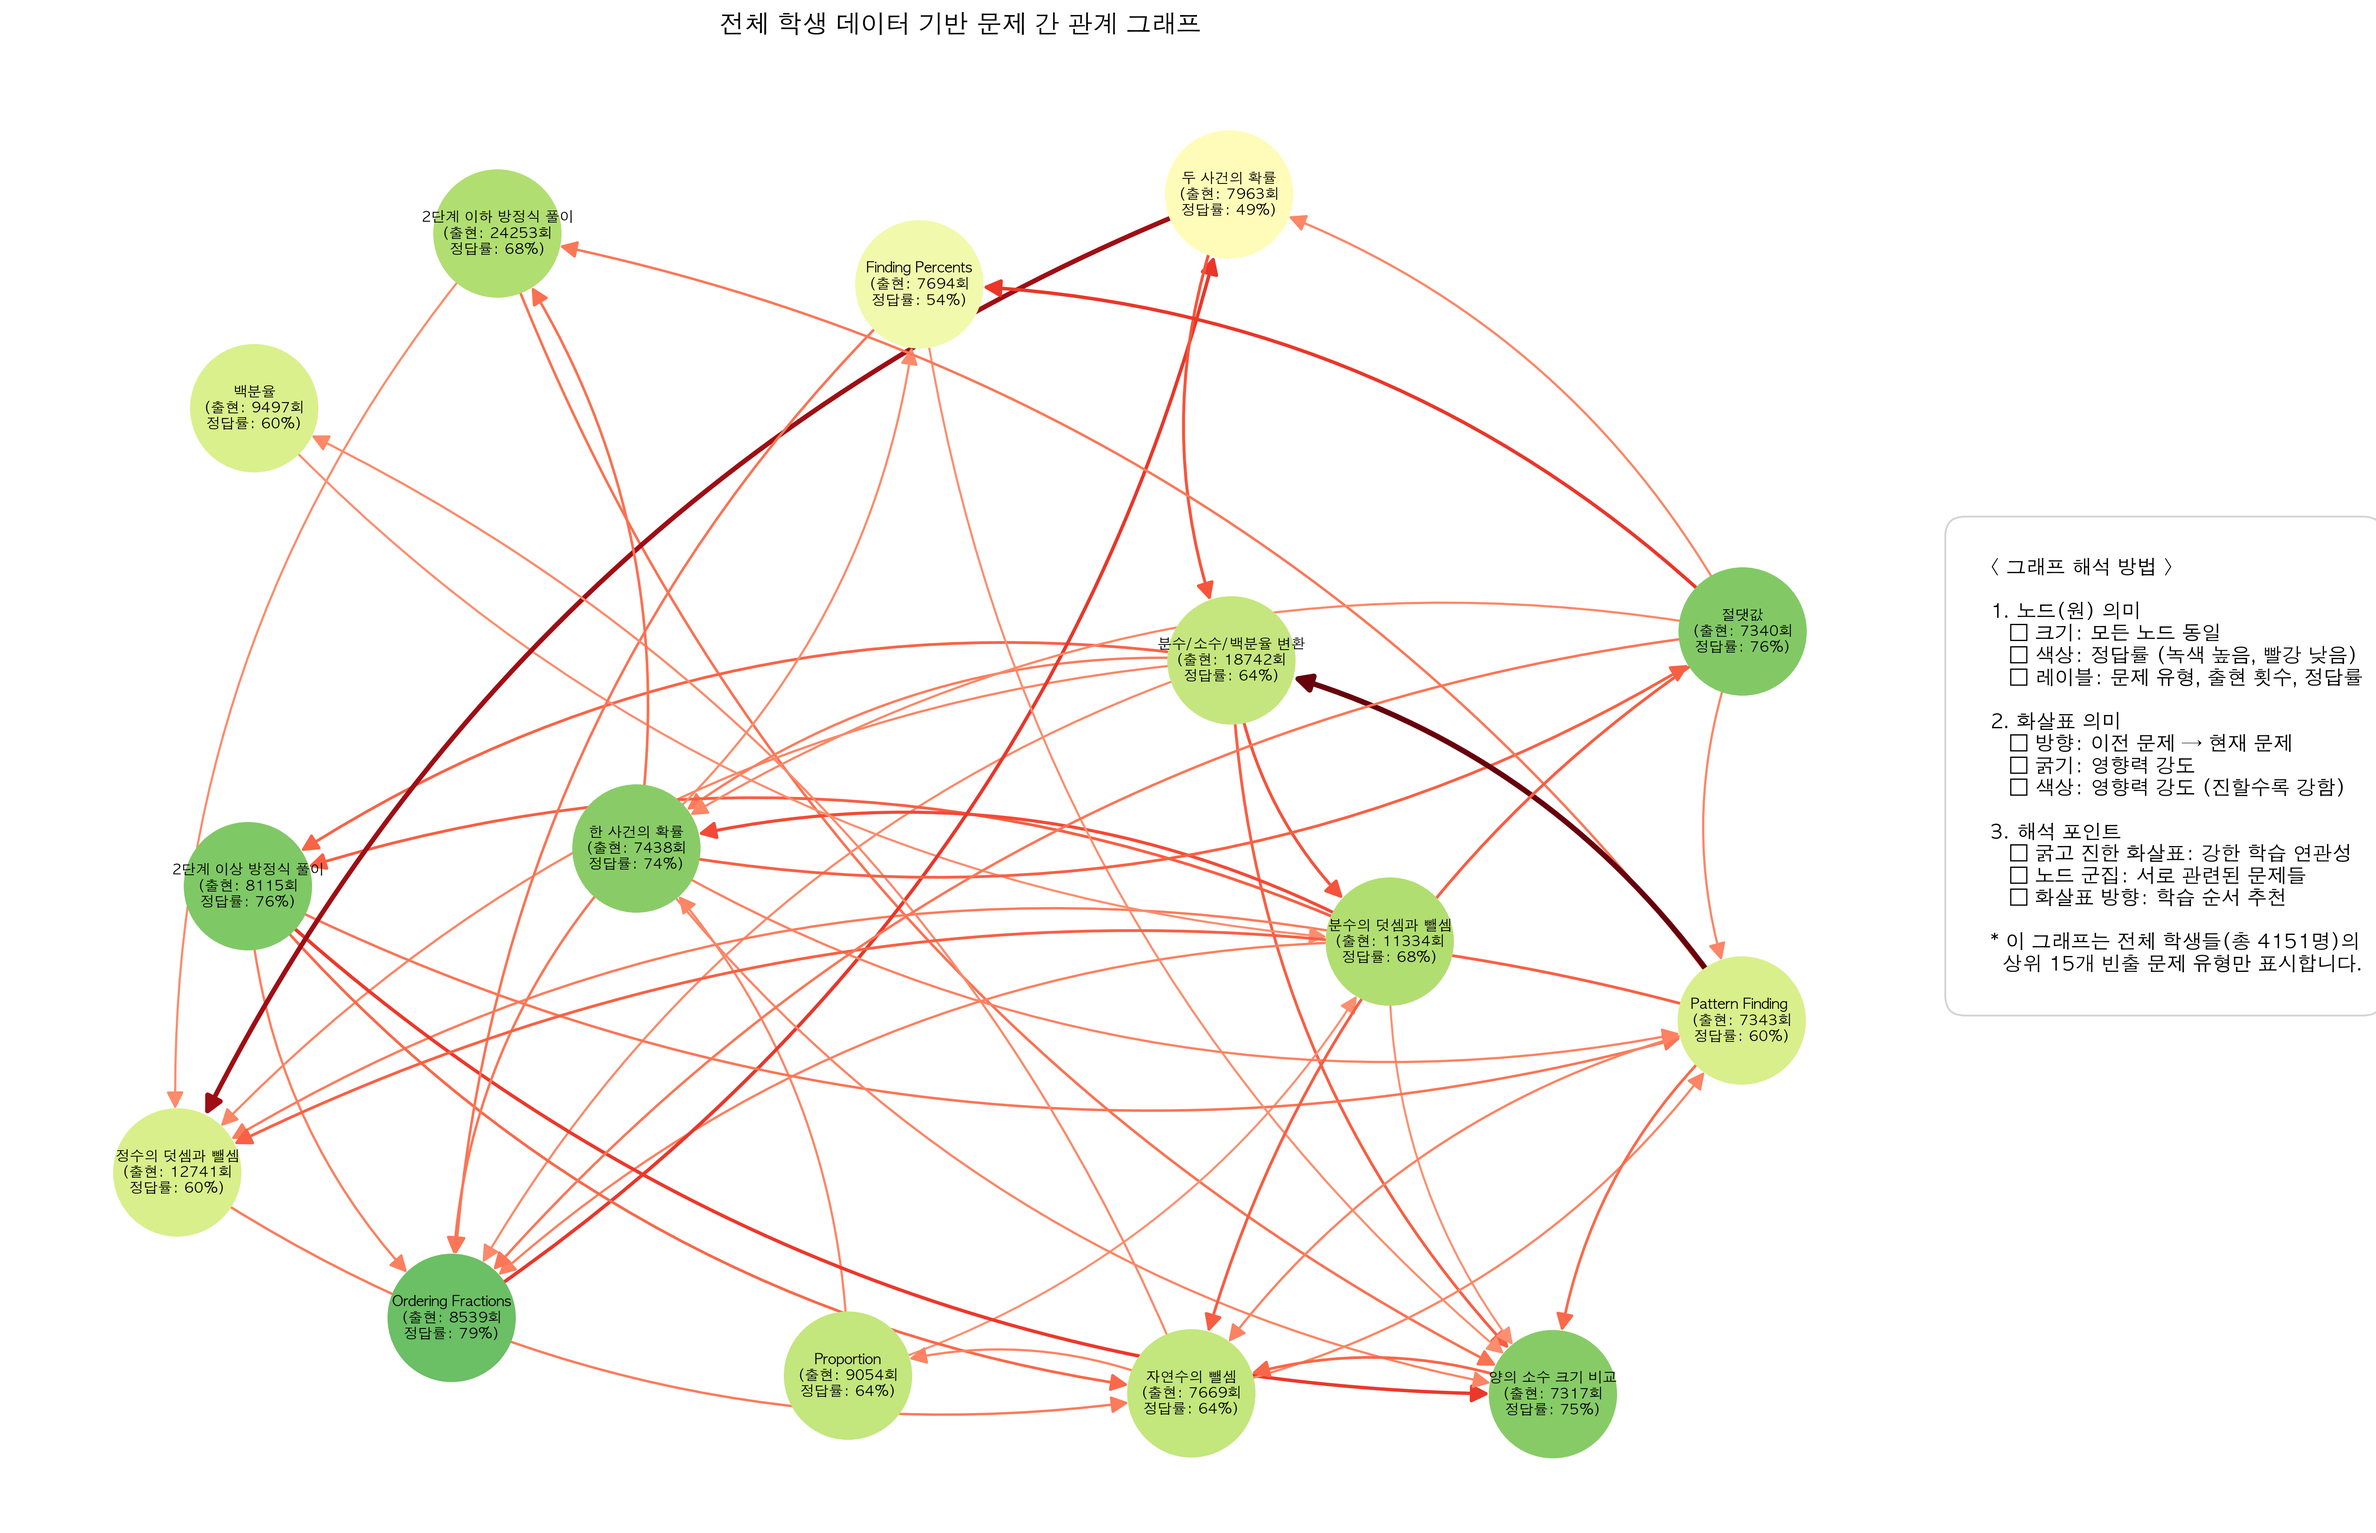
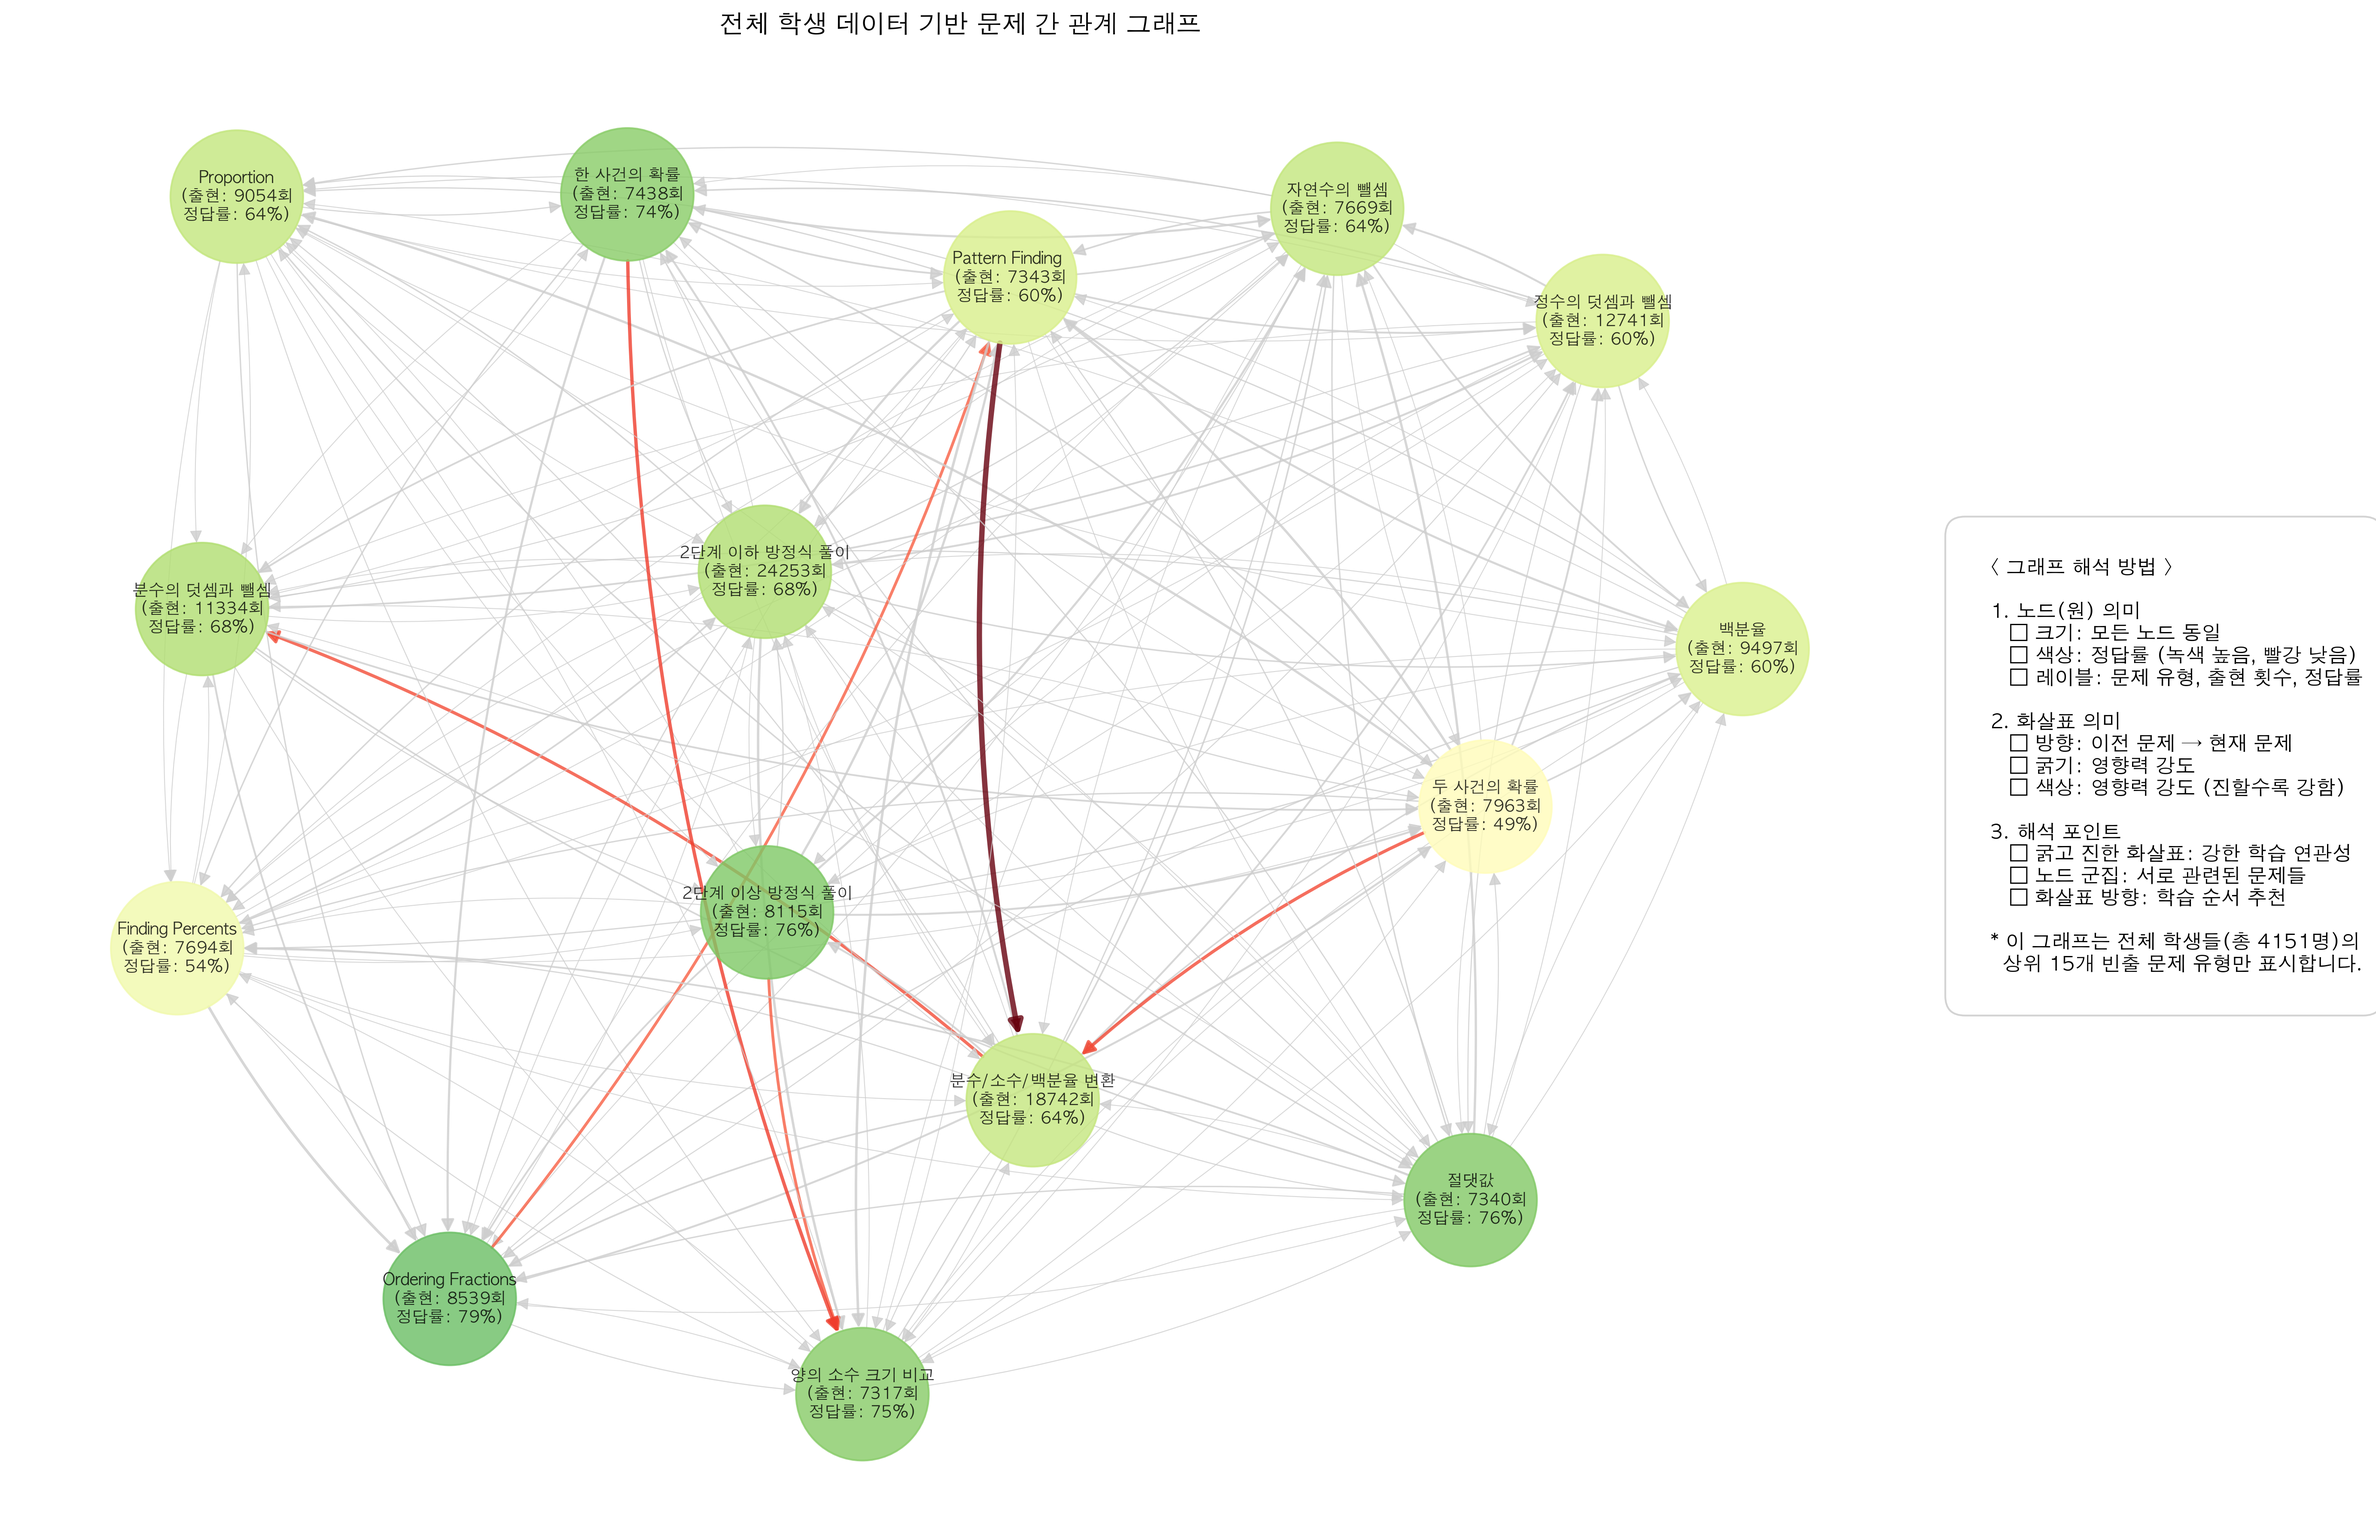
시각화 개선: 관계 그래프에서 0.3 이상의 attention 값만 표시하고 강도에 비례하는 두께 적용

Changed region(s): [[0.0311, 0.0622, 0.7773, 0.9644], [0.4353, 0.8089, 0.4975, 0.84], [0.5286, 0.8089, 0.5597, 0.84]]

diff --git a/visualization_global_graph.py b/visualization_global_graph.py
@@ -190,9 +190,9 @@ def visualize_global_relationship_graph(model, dataset, top_n=15):
         node_labels[node_id] = label
         node_colors[node_id] = plt.cm.RdYlGn(accuracy)  # 정답률에 따른 색상
     
-    # 상위 30% 엣지만 표시 (임계값 설정)
+    # attention 값이 0.3 이상인 연결만 표시
     flat_attention = attention_matrix.flatten()
-    threshold = np.percentile(flat_attention[flat_attention > 0], 70)
+    threshold = 0.3  # 절대값 기준으로 설정
     
     edge_weights = []
     edge_colors = []
@@ -206,27 +206,37 @@ def visualize_global_relationship_graph(model, dataset, top_n=15):
                 weight = attention_matrix[i][j]
                 
                 G.add_edge(source_id, target_id, weight=weight)
-                edge_weights.append(weight * 3)  # 시각화를 위해 가중치 조정
-                edge_colors.append(plt.cm.Reds(weight))
+                # 약한 연결도 보이도록 가중치 조정
+                scaled_weight = (weight - threshold) / (attention_matrix.max() - threshold)
+                
+                # 모든 연결의 두께를 강도에 비례하도록 설정
+                edge_weights.append(max(0.5, scaled_weight * 3))  # 최소 두께 0.5 보장
+                
+                # 연결 강도에 따른 색상 지정
+                if weight < 0.5:
+                    edge_colors.append(plt.cm.Greys(0.5))  # 0.3~0.5는 회색
+                else:
+                    edge_colors.append(plt.cm.Reds(scaled_weight))  # 0.5 이상은 빨간색 계열
     
     # 그래프 레이아웃 설정
     pos = nx.spring_layout(G, k=2, iterations=50)
     
-    # 그래프 그리기
+    # 그래프 그리기 - 약한 연결도 보이도록 설정 수정
     nx.draw(G, pos,
             with_labels=True,
             labels=node_labels,
             node_color=[node_colors[node] for node in G.nodes()],
-            node_size=5000,
-            font_size=8,
+            node_size=5500,  # 노드 크기 조정
+            font_size=9,
             font_weight='bold',
             font_family='AppleGothic',
             width=edge_weights,
             edge_color=[color for color in edge_colors],
             arrows=True,
-            arrowsize=20,
+            arrowsize=15,    # 화살표 크기 줄임
             ax=ax,
-            connectionstyle="arc3,rad=0.2")
+            connectionstyle="arc3,rad=0.1",  # 곡선 정도 줄임
+            alpha=0.8)       # 투명도 조정
     
     # 제목 설정
     plt.title('전체 학생 데이터 기반 문제 간 관계 그래프', pad=20, fontsize=14)

diff --git a/visualization_global.py b/visualization_global.py
@@ -155,9 +155,24 @@ def visualize_global_attention_patterns(model, dataset, sequence_length=100):
     # 문제 유형별 등장 횟수 계산
     problem_freq = {i: problem_correct_count[i]['total'] for i in range(dataset.num_q)}
     
+    # 통계 출력
+    total_interactions = sum(problem_freq.values())
+    total_students = len(set(dataset.u_list))
+    print(f"\n전체 통계:")
+    print(f"총 학생 수: {total_students}명")
+    print(f"총 상호작용 수: {total_interactions}회")
+    print(f"학생당 평균 문제 풀이 수: {total_interactions/total_students:.1f}회")
+    
     # 가장 많이 등장하는 상위 15개 문제 유형 선택
     top_problems = sorted(problem_freq.items(), key=lambda x: x[1], reverse=True)[:15]
     top_problem_indices = [idx for idx, _ in top_problems]
+    
+    print("\n상위 15개 문제 통계:")
+    for idx, freq in top_problems:
+        correct = problem_correct_count[idx]['correct']
+        total = problem_correct_count[idx]['total']
+        accuracy = correct / total if total > 0 else 0
+        print(f"문제 {idx}: {total}회 출현 (전체의 {total/total_interactions*100:.1f}%), 정답률 {accuracy*100:.1f}%")
     
     # 선택된 문제들에 대한 attention matrix 추출
     attention_matrix = np.divide(

diff --git a/self-attention-dkt2.py b/self-attention-dkt2.py
@@ -440,18 +440,7 @@ class SAKT(Module):
                         graph_fig = visualize_global_relationship_graph(self, dataset)
                         graph_fig.savefig('attention_graph_global_dkt2.png', bbox_inches='tight', dpi=300)
                         
-                        # 기존 시각화들도 유지
-                        att_fig1, att_fig2 = visualize_attention_patterns(self, dataset)
-                        att_fig1.savefig('attention_heatmap_dkt2.png')
-                        att_fig2.savefig('attention_graph_dkt2.png')
-                        
-                        # 학습 진행 상황 시각화
-                        prog_fig = plot_learning_progress(self, dataset)
-                        prog_fig.savefig('learning_progress_dkt2.png')
-                        
-                        # 스킬 숙련도 분석
-                        skill_fig = analyze_skill_mastery(self, dataset)
-                        skill_fig.savefig('skill_mastery_dkt2.png')
+                        # 전체 attention 분석만 실행
 
 batch_size = 256
 num_epochs = 30  # 원래 30회로 복구

diff --git a/import torch.py b/import torch.py
@@ -109,4 +109,4 @@ with torch.no_grad():
     outputs = model(inputs)
     pred = (outputs[:, :, 0] if outputs.shape[2] > 1 else outputs.squeeze(-1)) > 0.5
     print("EdNet 예측 결과:", pred)
-   ㅁㄴㅇㄹ
+   
